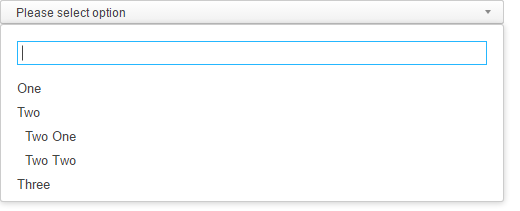
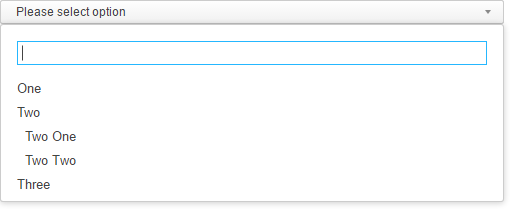
Button vs Select – inconsistent line-height #RG-961 Fixed
Former-commit-id: 5189147fee54190b57caeef9cfa4f41203a1e497

Changed region(s): [[0.0308, 0.0284, 0.2462, 0.0853]]

diff --git a/components/select/select.scss b/components/select/select.scss
@@ -59,7 +59,7 @@
     text-overflow: ellipsis;
     display: inline-block;
     overflow: hidden;
-    vertical-align: middle;
+    vertical-align: top;
 
     // Supports Firefox
     &, x:-moz-any-link {
